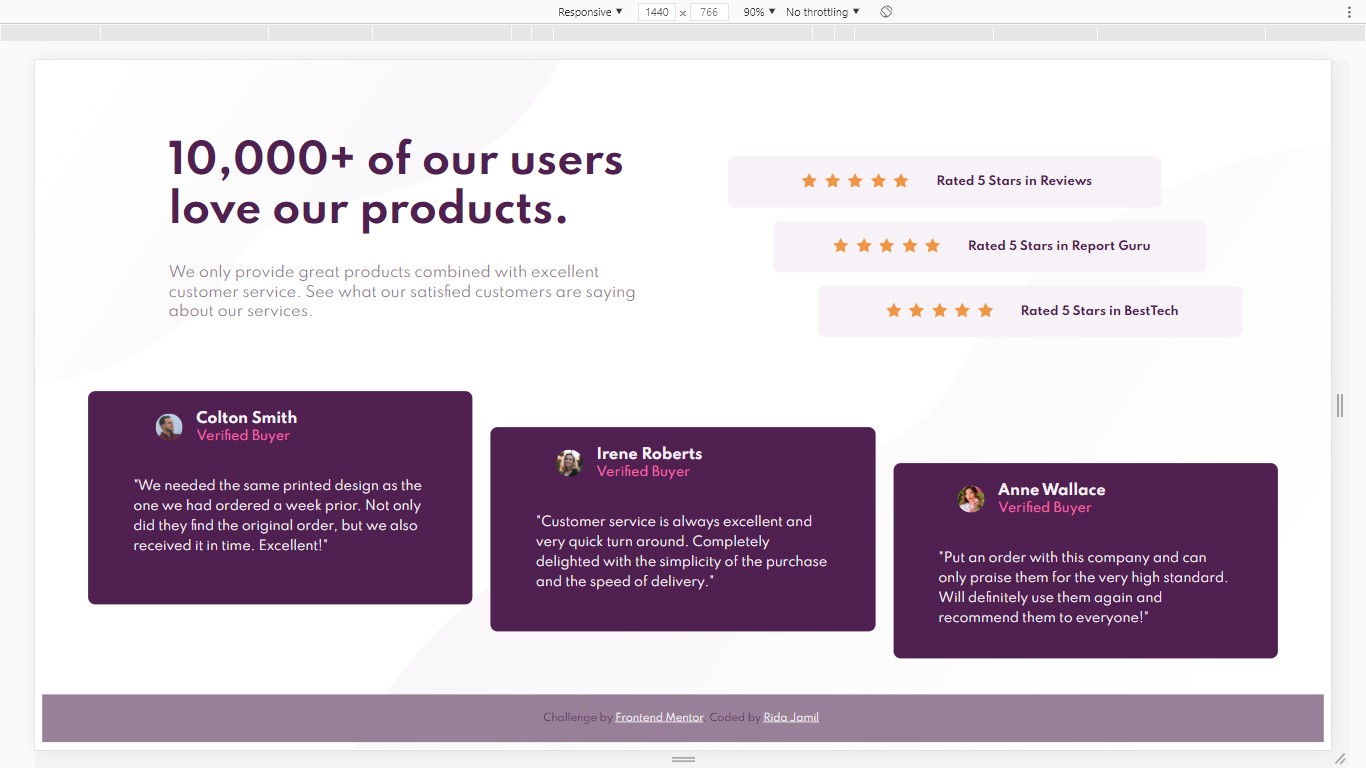
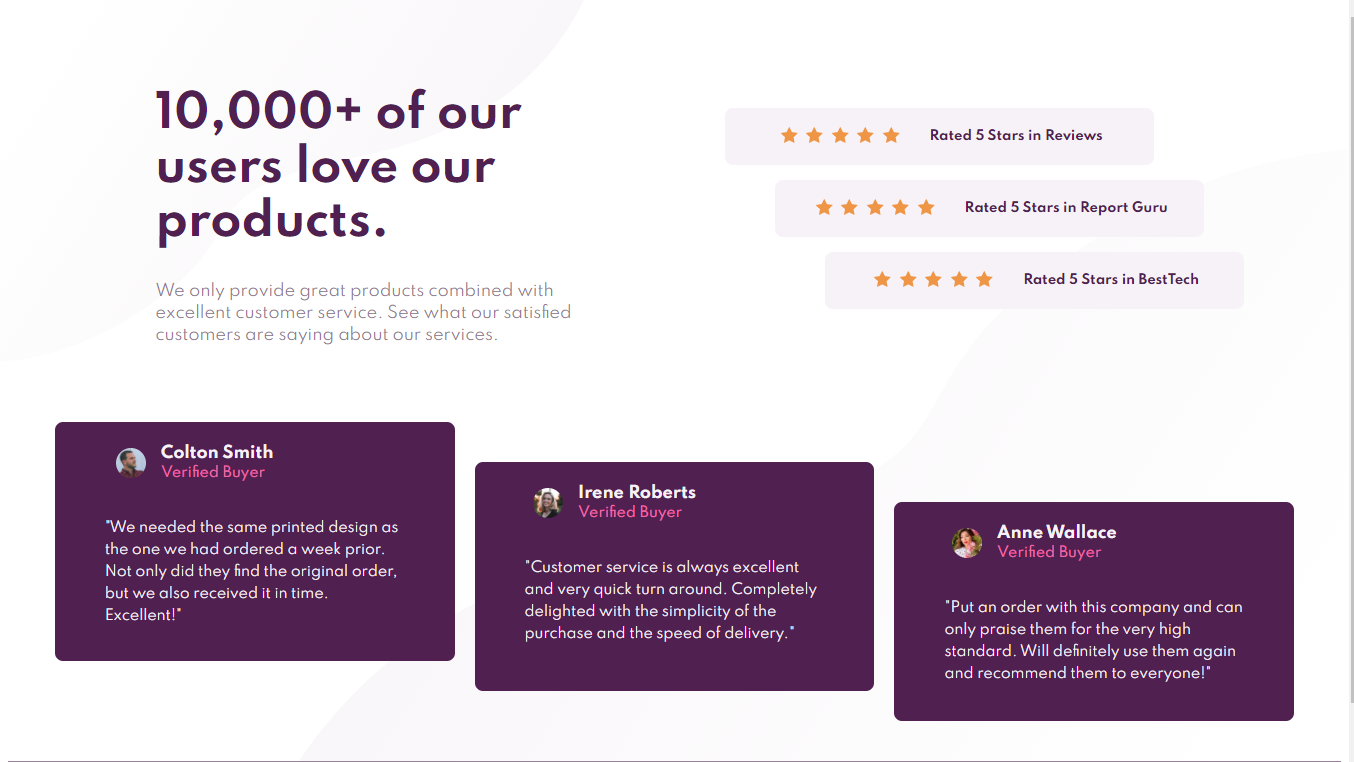
Update

diff --git a/style.css b/style.css
@@ -11,7 +11,7 @@
         grid-template-columns: repeat(2, 40%);
         column-gap: 100px;
         justify-content: center;
-        margin: 0px 10px;
+        margin: 0px 30px;
         padding: 50px;
     }
     h1 {
